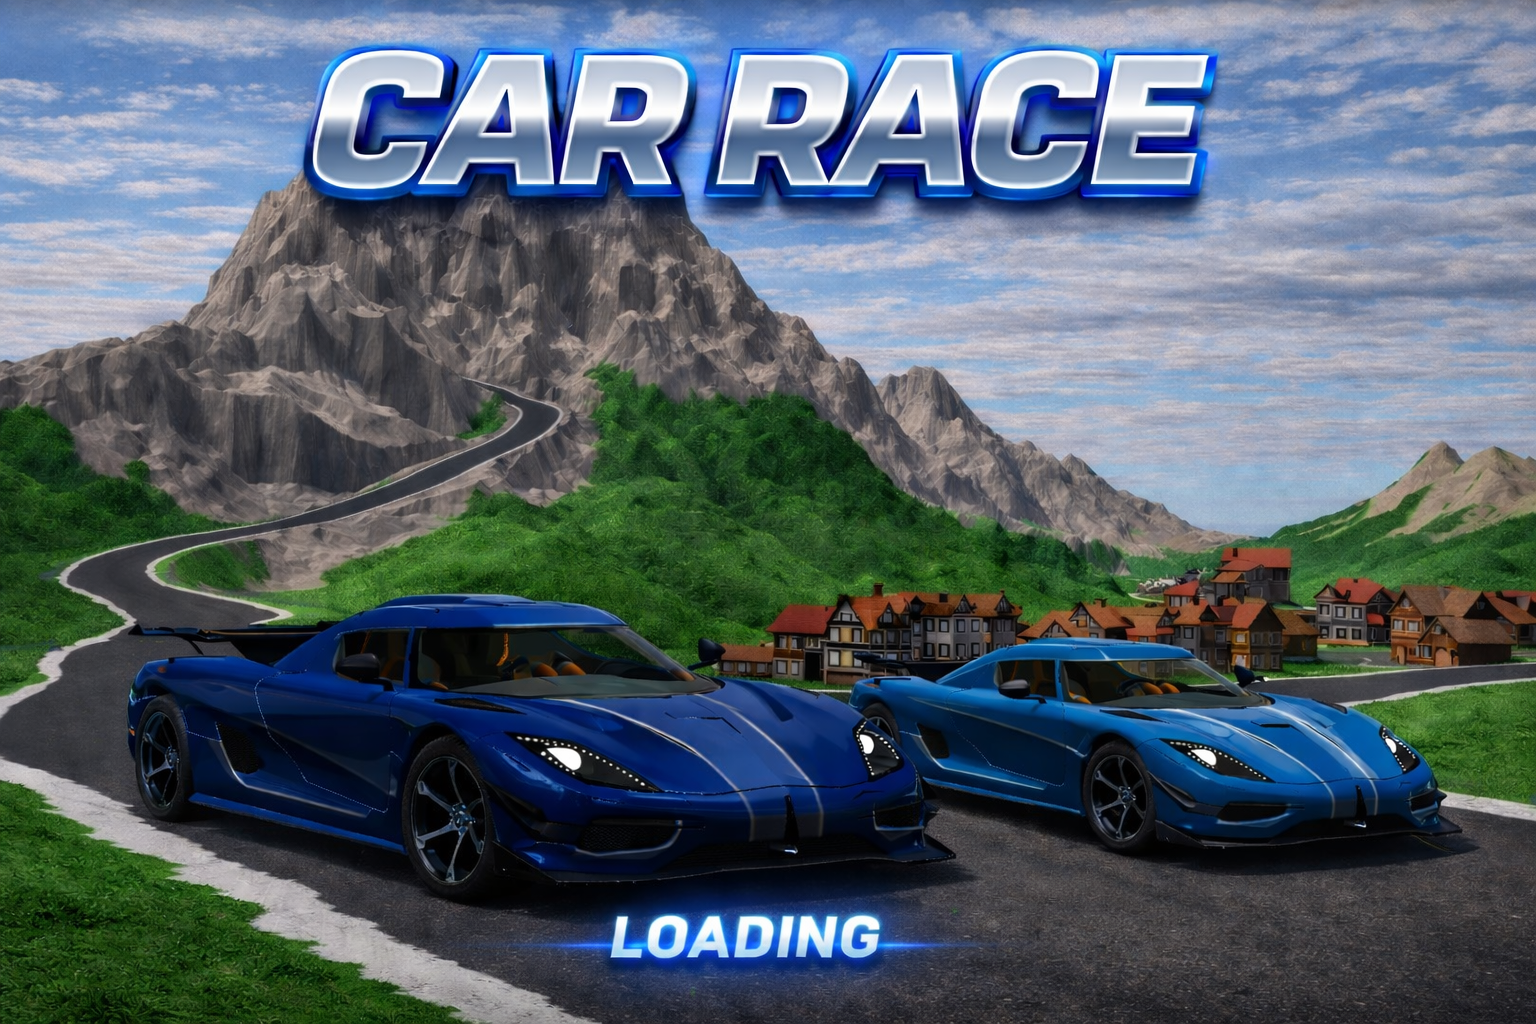
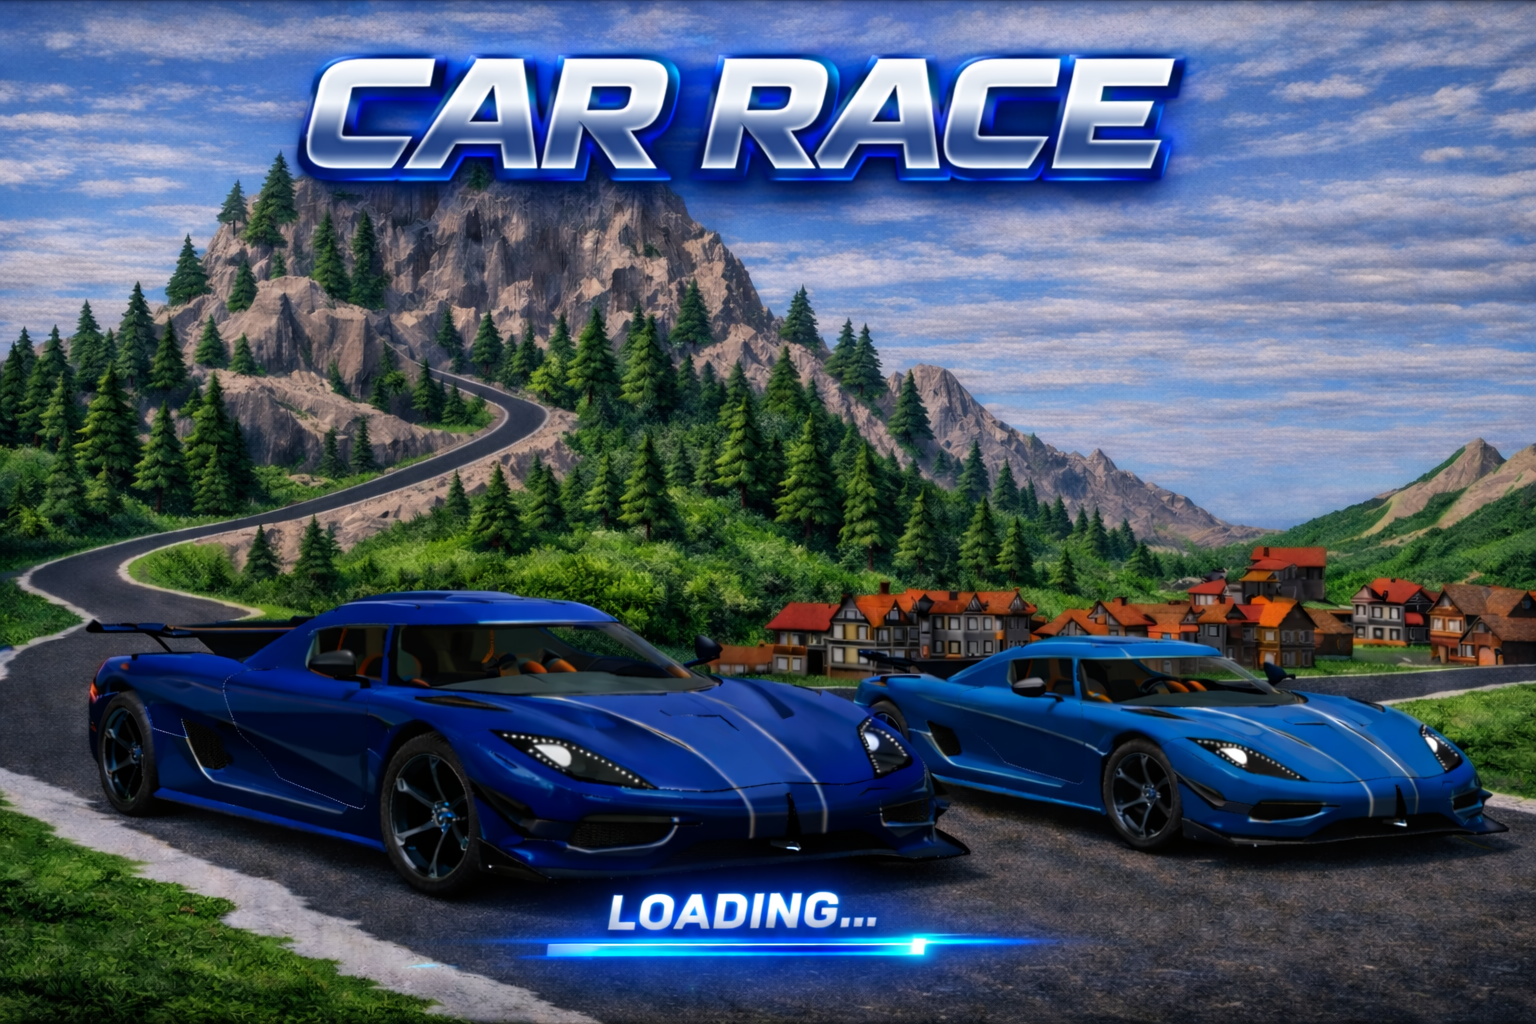
add full screen mode and change loading screen

diff --git a/src/gfx/Rendering.cpp b/src/gfx/Rendering.cpp
@@ -203,7 +203,18 @@ bool Rendering::CreateGLFWWindow(int width, int height, const char* title) {
     glfwWindowHint(GLFW_CONTEXT_VERSION_MINOR, 3);
     glfwWindowHint(GLFW_OPENGL_PROFILE, GLFW_OPENGL_CORE_PROFILE);
 
-    window = glfwCreateWindow(width, height, title, NULL, NULL);
+    GLFWmonitor* monitor = nullptr;
+    if (Settings::Get().fullscreen) {
+        monitor = glfwGetPrimaryMonitor();
+        const GLFWvidmode* mode = glfwGetVideoMode(monitor);
+        width = mode->width;
+        height = mode->height;
+    }
+
+    Rendering::window_width = width;
+    Rendering::window_height = height;
+
+    window = glfwCreateWindow(width, height, title, monitor, NULL);
     if (window == NULL) {
         std::cout << "Failed to create GLFW window" << std::endl;
         glfwTerminate();
@@ -242,6 +253,7 @@ bool Rendering::CreateGLFWWindow(int width, int height, const char* title) {
 }
 
 void Rendering::framebuffer_size_callback(GLFWwindow* window, int width, int height) {
+    if (width == 0 || height == 0) return;
     Rendering::window_width = width;
     Rendering::window_height = height;
     glViewport(0, 0, width, height);

diff --git a/src/game/Settings.cpp b/src/game/Settings.cpp
@@ -73,6 +73,7 @@ void Settings::LoadFromFile(const char* filename) {
     // Screen
     loadInt("START_SCR_WIDTH", START_SCR_WIDTH, 50, 5000);
     loadInt("START_SCR_HEIGHT", START_SCR_HEIGHT, 50, 5000);
+    loadBool("fullscreen", fullscreen);
 
     // Gameplay
     loadInt("CAR_COUNT", CAR_COUNT, 1, 2);

diff --git a/src/game/Settings.h b/src/game/Settings.h
@@ -10,6 +10,7 @@
 struct Settings {
     int START_SCR_WIDTH = 1600;
     int START_SCR_HEIGHT = 1000;
+    bool fullscreen = false;
     bool productionMode = false;
     int CAR_COUNT = 2;
 
